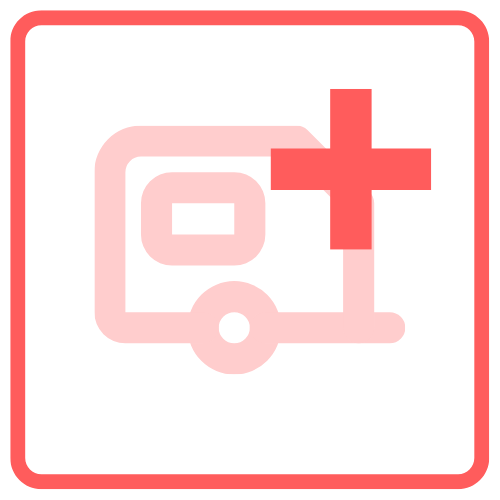
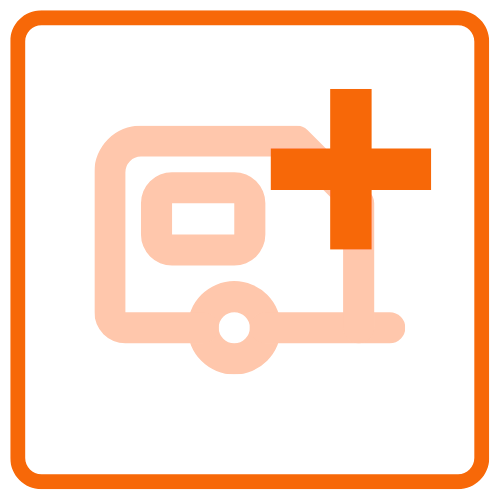
minor fixes and profile responsive

Changed region(s): [[0.18, 0.18, 0.87, 0.75], [0.0, 0.0, 0.99, 0.99]]

diff --git a/src/pages/ProfilePage/ProfilePage.jsx b/src/pages/ProfilePage/ProfilePage.jsx
@@ -86,8 +86,8 @@ const ProfilePage = () => {
         <section className="top-margin">
             <Container>
                 <Row className="d-flex justify-content-start">
-                    <Col sm={4}>
-                        <div className="background-profile-detalis">
+                    <Col xs={12} md={5} lg={4}>
+                        <div>
                             <ProfileCard {...userDetails} />
                             <div className="buttons-shortcuts">
                                 <button className="message-btn">
@@ -103,33 +103,24 @@ const ProfilePage = () => {
                             </div>
 
                             <hr />
+                            <div className="profileButtonsMain">
+                                <Row>{getButton("favorites", "Favorites")}</Row>
+                                <Row>{getButton("userBookings", "Your Bookings")}</Row>
 
-                            <Row>{getButton("favorites", "Favorites")}</Row>
-                            <Row>{getButton("userBookings", "Your Bookings")}</Row>
+                                {(userDetails?.role === "OWNER" || userDetails?.role === "ADMIN") && (
+                                    <>
+                                        <Row>{getButton("vans", "Your Vans")}</Row>
+                                        <Row>{getButton("ownerBookings", "Booked from you")}</Row>
+                                        <Row>{getButton("barChart", "Charts")}</Row>
+                                    </>
+                                )}
+                            </div>
 
-                            {(userDetails?.role === "OWNER" || userDetails?.role === "ADMIN") && (
-                                <>
-                                    <Row>{getButton("vans", "Your Vans")}</Row>
-                                    <Row>{getButton("ownerBookings", "Booked from you")}</Row>
-                                    <Row>{getButton("barChart", "Charts")}</Row>
-                                </>
-                            )}
                         </div>
                     </Col>
 
-                    <Col className="background-profile-detalis">
+                    <Col >
                         {getProfileView(selectedOption)}
-                        {/* <FavoritesVans id="favorites-vans" {...userDetails} />
-                            <UserBookings id="user-bookings" {...userDetails} />
-                            {(userDetails?.role === "OWNER" || userDetails?.role === "ADMIN") && (
-                                <>
-                                    <UserVans />
-
-                                    <OwnerBookings {...userDetails} />
-
-                                    <BarChart {...userDetails} />
-                                </>
-                            )} */}
                     </Col>
                     <Modal show={showModal} onHide={closeModal}>
                         <div className="modal1">

diff --git a/src/components/Charts/Charts.jsx b/src/components/Charts/Charts.jsx
@@ -26,32 +26,13 @@ const BarChart = ({ ownerBookings }) => {
             {
                 label: "Last Incomes",
                 data: ["1000", "2000", "3000", "2500", "3000", "4000", "3500"],
-                backgroundColor: "rgba(255, 156, 130, 1)",
+                backgroundColor: "rgba(250, 150, 40, 1)",
             },
         ],
     }
-    // let label
-    // let chartData
-
-    // label = [ownerBookings?.map((elm) => `${elm.price}$`)]
-    // console.log("el label", label)
-    // chartData = [ownerBookings?.map((elm) => elm.price)]
-    // console.log("data", chartData)
-
-    // const data = {
-    //     labels: label,
-    //     datasets: [
-    //         {
-    //             label: "Last Bookings",
-    //             data: chartData,
-    //             backgroundColor: "rgba(255, 156, 130, 1)",
-    //         },
-    //     ],
-    // }
-
     return (
         <Row>
-            <h4>Your Incomes </h4>
+            <h3 className="favorite">Your Incomes </h3>
             <hr />
             <Bar options={options} data={data1} />
         </Row>

diff --git a/src/components/OwnerBookings/OwnerBookings.jsx b/src/components/OwnerBookings/OwnerBookings.jsx
@@ -4,7 +4,7 @@ import UserBookingsCard from "../UserBookingsCard/UserBookingsCard"
 const OwnerBookings = ({ ownerBookings }) => {
     const bookingList = ownerBookings?.map((booking) => {
         return (
-            <Col key={booking._id} className="mb-2">
+            <Col xs={12} xl={6} key={booking._id} className="mb-2">
                 <UserBookingsCard {...booking} />
             </Col>
         )
@@ -13,8 +13,8 @@ const OwnerBookings = ({ ownerBookings }) => {
     return (
         <>
             <Container>
-                <Row className="g-4 " xs={2}>
-                    <h4 className="favorite"> Booked from You </h4>
+                <Row className="g-4 " xs={12}>
+                    <h3 className="favorite"> Booked from You </h3>
                     <hr />
 
                     {bookingList}

diff --git a/src/pages/ProfilePage/ProfilePage.css b/src/pages/ProfilePage/ProfilePage.css
@@ -10,15 +10,11 @@ hr {
     box-shadow: 3px 3px 10px var(--main-color-3);
     /* border: 2px solid #ff5c5c31; */
 
-    padding: 4rem 4rem 8rem 4rem;
+    /* padding: 16% 16% 32% 16%; */
 }
 .button-profile {
     margin-top: 0.5em;
     padding: 10px 0;
-
-    border-left: 0.5px solid #ff5c5c52;
-    border-right: 0.5px solid #ff5c5c52;
-
     background-color: transparent;
 }
 .button-profile:hover {
@@ -28,8 +24,9 @@ hr {
 }
 
 .button-profile.current {
-    background-color: #ff5c5c;
+    background-color: var(--vanmeup-2);
     color: white;
+    border-radius: 6px;
     /* font-weight: 600; */
 }
 
@@ -47,5 +44,13 @@ hr {
 .buttons-shortcuts{
     margin: 1em;
     display: flex
+    
+}
+
+.profileButtonsMain{
+padding: 30px;
+
+
+
     
 }

diff --git a/src/components/FavoritesVans/FavoritesVans.jsx b/src/components/FavoritesVans/FavoritesVans.jsx
@@ -9,7 +9,7 @@ const FavoritesVans = ({ favoriteVans }) => {
     const vansList = favoriteVans?.map((van) => {
         
         return (
-            <Col >
+            <Col xs={12} lg={6}>
                 <VanCard {...van} key={van._id} />
             </Col>
         )
@@ -18,9 +18,9 @@ const FavoritesVans = ({ favoriteVans }) => {
     return (
         <>
             <Container>
-                <h4 className="favorite">Favorite Vans</h4>
+                <h3 className="favorite">Favorite Vans</h3>
                 <hr />
-                <Row className="g-4" xs={2}>
+                <Row className="g-4">
                     {vansList}
                 </Row>
             </Container>

diff --git a/src/components/UserBookingsCard/UserBookingsCard.jsx b/src/components/UserBookingsCard/UserBookingsCard.jsx
@@ -29,7 +29,7 @@ const UserBookingsCard = ({ startDate, endDate, price, bookedVan }) => {
     }
     return (
         <>
-            <Col style={{ paddingLeft: "0px" }}>
+            <Col xs={12} lg={6} style={{ paddingLeft: "0px" }}>
                 <div className="confirmBookingInfoMain">
                     <div className=" mb-4">
                         <Row>

diff --git a/src/components/UserBookings/UserBookings.jsx b/src/components/UserBookings/UserBookings.jsx
@@ -10,7 +10,7 @@ const UserBookings = ({ userBookings }) => {
         <>
             <Container>
                 <Row className="g-4 " xs={2}>
-                    <h4 className="favorite"> Bookings</h4>
+                    <h3 className="favorite"> Bookings</h3>
                     <hr />
 
                     {bookingList}

diff --git a/src/components/UserVans/UserVans.jsx b/src/components/UserVans/UserVans.jsx
@@ -34,8 +34,8 @@ const UserVans = () => {
     })
 
     return (
-        <Row className="g-4 " xs={2}>
-            <h4 className="favorite">Your Vans</h4>
+        <Row className="g-4 " xs={12}>
+            <h3 className="favorite">Your Vans</h3>
             <hr />
             {vansList}
         </Row>

diff --git a/src/components/ProfileCard/ProfileCard.css b/src/components/ProfileCard/ProfileCard.css
@@ -1,7 +1,7 @@
 .profile-name {
-    font-family: "Josefin Sans", sans-serif;
-    color: #5d5d5d;
-   
+    
+    color: #6e6e6e;
+    font-size: 1.8em;
 }
 
 .img-profile {
@@ -9,6 +9,7 @@
     padding: 0;
     border-radius: 10px;
 }
+
 .profile-entry {
     padding: 1em 0.5em;
 

diff --git a/src/pages/ResultsPage/ResultsPage.css b/src/pages/ResultsPage/ResultsPage.css
@@ -33,9 +33,9 @@
 }
 
 .filterMain {
-    flex: 1 !important;
+    /* flex: 1 !important;
     height: calc(68vh) !important;
-    overflow-y: scroll !important;
+    overflow-y: scroll !important; */
     margin-top: 0px;
     padding: 0% 8%;
     padding-bottom: 25%;

diff --git a/src/components/BookingConfirmCard/BookingConfimCard.css b/src/components/BookingConfirmCard/BookingConfimCard.css
@@ -38,6 +38,7 @@ h5 {
     border-radius: 13px;
     padding:  25px;
     margin-right: 10%;
+    max-width: 370px;
     /* background-color: red; */
     box-shadow: 3px 3px 10px var(--main-color-3);
 }

diff --git a/src/components/FavoritesVans/FavoritesVans.css b/src/components/FavoritesVans/FavoritesVans.css
@@ -1,4 +1,5 @@
-.favorite h3{
+.favorite{
    color:  #6e6e6e;
+   font-size: 1.7em;
    
 }
